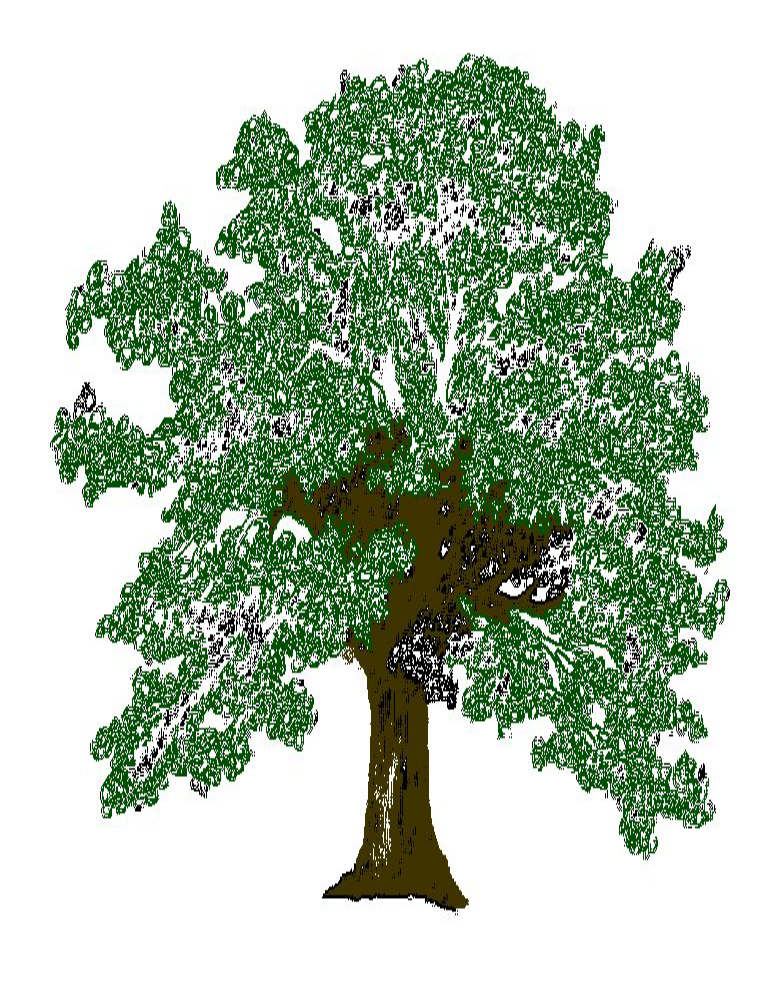
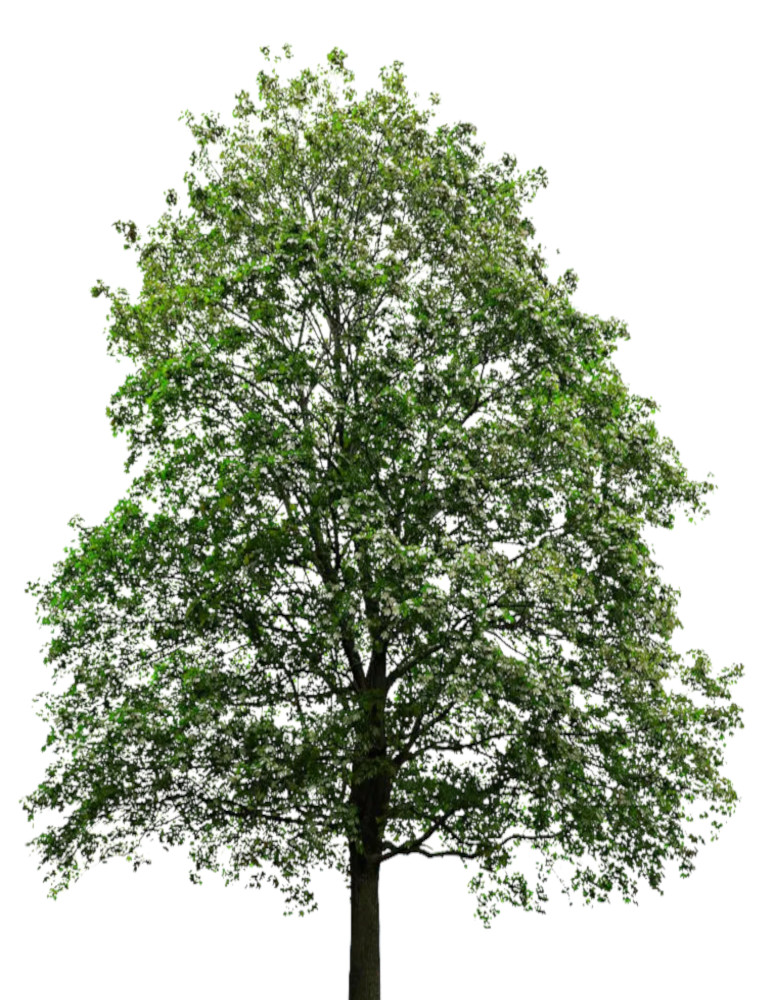
Minor fixes.

diff --git a/AncestrisCore/reports/src/ancestris/reports/gedart/ReportGedart.java b/AncestrisCore/reports/src/ancestris/reports/gedart/ReportGedart.java
@@ -61,9 +61,12 @@ import genj.report.Report;
 
 import java.io.File;
 import java.io.IOException;
+import java.net.URL;
 import java.util.ArrayList;
 import java.util.List;
 import java.util.logging.Level;
+import org.apache.commons.io.FileUtils;
+import org.openide.util.Exceptions;
 
 import org.openide.util.lookup.ServiceProvider;
 
@@ -278,9 +281,21 @@ public class ReportGedart extends Report {
                 return null;
             }
         }
+        
+        if (thetemplate.contains("A03_TreePretty")) {
+            try {
+                String resource = "oaktreeC.jpg";
+                String source = "/ancestris/reports/gedart/templates/A03_TreePretty/" + resource;
+                URL inputUrl = GedartTemplates.class.getResource(source);
+                FileUtils.copyURLToFile(inputUrl, new File(file.getParentFile(), resource));
+            } catch (IOException ex) {
+                println("Failed to copy image. Error:" + ex.getMessage());
+                Exceptions.printStackTrace(ex);
+            }
+        }
 
         println("Completed.");
         return file;
     }
-
+    
 }

diff --git a/AncestrisCore/core.report/src/genj/report/ReportSelector.java b/AncestrisCore/core.report/src/genj/report/ReportSelector.java
@@ -44,6 +44,8 @@ class ReportSelector extends JPanel {
     private ReportList list = new ReportList(ReportLoader.getInstance().getReports(), ReportList.VIEW_TREE);
     private OptionsWidget options = new OptionsWidget("");
     private Action actionGroup = new ActionGroup();
+    static final Resources RESOURCES = Resources.get(ReportView.class);
+    
 
     /** Constructor */
     public ReportSelector() {
@@ -114,7 +116,7 @@ class ReportSelector extends JPanel {
          */
         protected ActionGroup() {
             setImage(new ImageIcon(ReportView.class, "Group"));
-//      setTip(RESOURCES.getString("report.group.tip"));
+            setTip(RESOURCES.getString("report.group.tip"));
         }
 
         /**
